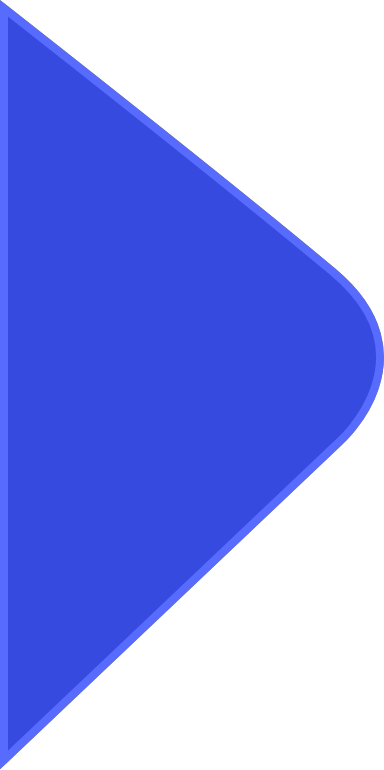
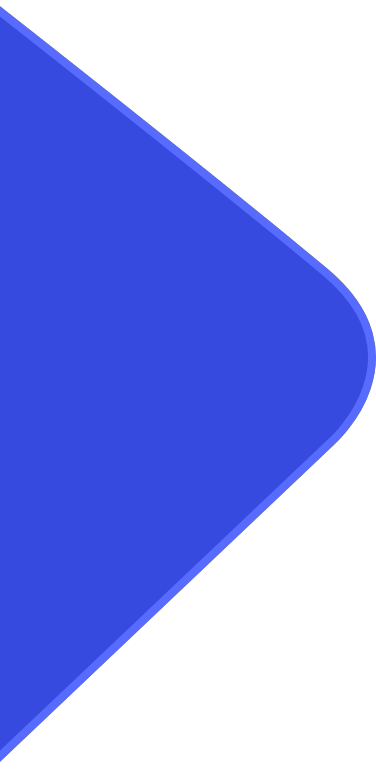
css images de fond sur les pages

diff --git a/article-solutions.html b/article-solutions.html
@@ -23,13 +23,12 @@
     </div>
     <nav id="" class="menu">
         <ul>
-            <li><a href="index.html">Accueil</a></li>
-            <li><a href="article-intro.html">Article introductif</a></li>
-            <li><a href="article-pbs.html">Article problèmes</a></li>
-            <li><a href="article-solutions.html">Article solutions</a></li>
-            <li><a href="a-propos.html">A propos</a></li>
-            <li><a href="contact.html">Contact</a></li>
-
+            <li><a href="index.html">Accueil <i class="fa fa-home" aria-hidden="true"></i></a></li>
+            <li><a href="article-intro.html">Article introductif <i class="fa fa-file-text" aria-hidden="true"></i></a></li>
+            <li><a href="article-pbs.html">Article problèmes <i class="fa fa-file-text" aria-hidden="true"></i></a></li>
+            <li><a href="article-solutions.html">Article solutions <i class="fa fa-file-text" aria-hidden="true"></i></a></li>
+            <li><a href="a-propos.html">A propos <i class="fa fa-question-circle" aria-hidden="true"></i></a></li>
+            <li><a href="contact.html">Contact <i class="fa fa-at" aria-hidden="true"></i></a></li>
         </ul>
     </nav>
 </header>
@@ -51,26 +50,31 @@
 </div>
 
 <article>
+
     <p>Dans cet article, nous énumérerons une façon de limiter l’impact de la circulation des données, mais aussi des moyens mis en œuvre pour les réduire ainsi que pour repenser leur stockage.</p>
     <p>Ensuite nous verrons des changements qui peuvent être appliqués à l’échelle de l’utilisateur, afin d’atténuer la pollution liée aux usages des équipements informatiques.</p>
 
     <h3 class="intertitres">Passer à l'edge computing :</h3>
     <div class="triangle"> </div>
-
+    <div class="edge">
     <p>L’edge computing revient à centraliser et traiter les données localement à l’aide de minuscules Data Centers placés à proximité des objets connectés, voire, directement dessus.</p>
     <p>La donnée n’est plus traitée de manière centrale, mais en périphérie d’où le terme « edge ». Puisque l’edge computing traite la donnée localement, il peut trier les informations et n’envoyer que les éléments importants aux terminaux.</p>
     <p>Cette solution est donc plus écologique puisque les données parcourent une distance moins importante et qu’elles n’exigent pas de cycle de refroidissement par l’eau, contrairement aux Data Centers.</p>
-    
+    </div>
     <img class="images-articles" src="img/Article_3/Edge_Computing.png" height="792" width="1436" alt="Schéma de l'edge computing">
 
     <h3 class="intertitres">Limiter les données :</h3>
     <div class="triangle"> </div>
+
+    <div class="eye">
 
     <p>La start-up française Prophesee commercialise une solution de traitement d’image qui ne nécessite que très peu de données.</p>
 
     <p>La plupart des objets connectés du marché utilisent la vision artificielle. Ces caméras enregistrent des séquences d’images qui seront compilées puis traitées. Les données visuelles sont donc produites en masse puis soit supprimées, soit traitées.</p>
 
     <p>La solution de Prophesee se base sur la vision humaine : plutôt que d’enregistrer chaque image, le cerveau nous transmet uniquement les informations liées aux mouvements. La vision artificielle innovante de Prophesee capture et transmet 1 000 fois moins de données qu’une caméra classique.</p>
+
+    </div>
 
     <h3 class="intertitres">Repenser le stockage de données :</h3>
     <div class="triangle"> </div>

diff --git a/article-pbs.html b/article-pbs.html
@@ -23,13 +23,12 @@
     </div>
     <nav id="" class="menu">
         <ul>
-            <li><a href="index.html">Accueil</a></li>
-            <li><a href="article-intro.html">Article introductif</a></li>
-            <li><a href="article-pbs.html">Article problèmes</a></li>
-            <li><a href="article-solutions.html">Article solutions</a></li>
-            <li><a href="a-propos.html">A propos</a></li>
-            <li><a href="contact.html">Contact</a></li>
-
+            <li><a href="index.html">Accueil <i class="fa fa-home" aria-hidden="true"></i></a></li>
+            <li><a href="article-intro.html">Article introductif <i class="fa fa-file-text" aria-hidden="true"></i></a></li>
+            <li><a href="article-pbs.html">Article problèmes <i class="fa fa-file-text" aria-hidden="true"></i></a></li>
+            <li><a href="article-solutions.html">Article solutions <i class="fa fa-file-text" aria-hidden="true"></i></a></li>
+            <li><a href="a-propos.html">A propos <i class="fa fa-question-circle" aria-hidden="true"></i></a></li>
+            <li><a href="contact.html">Contact <i class="fa fa-at" aria-hidden="true"></i></a></li>
         </ul>
     </nav>
 </header>
@@ -67,6 +66,8 @@
     <h3 class="intertitres">Les objets connectés, grand danger</h3>
     <div class="triangle"> </div>
 
+    <div class="head">
+
     <p>En 2019, on compte 8 équipements numérique par personne en moyenne. On pourrait en dénombrer plus de 68,5 milliards dans le monde d’ici 2025.</p>
 
     <p>Avec une progression pareille du numérique, les émissions de CO2 se verraient augmenter de 5,5 % en 2025, et l’électricité consommée à l’année pourrait tripler.</p>
@@ -76,6 +77,8 @@
     <p>Il ne faut pas oublier que la fabrication de ces appareils, à la manière des smartphones ou ordinateurs, impliquerait épuisement de ressources non renouvelables, pollution de l’eau, destruction des sols provoquée par l’extraction des minerais et productions importantes de gaz à effet de serre.</p>
 
     <p>Les minerais, en faible quantité, sont alliés à d’autres métaux, indiscernables, rendant leur recyclage compliqué.</p>
+
+    </div>
 
     <img class="images-articles" src="img/Article_2/Cyberbrain.jpg" width="1609" height="891" alt="Opération sur Cyberbrain">
 

diff --git a/article-intro.html b/article-intro.html
@@ -23,13 +23,12 @@
     </div>
     <nav id="" class="menu">
         <ul>
-            <li><a href="index.html">Accueil</a></li>
-            <li><a href="article-intro.html">Article introductif</a></li>
-            <li><a href="article-pbs.html">Article problèmes</a></li>
-            <li><a href="article-solutions.html">Article solutions</a></li>
-            <li><a href="a-propos.html">A propos</a></li>
-            <li><a href="contact.html">Contact</a></li>
-
+            <li><a href="index.html">Accueil <i class="fa fa-home" aria-hidden="true"></i></a></li>
+            <li><a href="article-intro.html">Article introductif <i class="fa fa-file-text" aria-hidden="true"></i></a></li>
+            <li><a href="article-pbs.html">Article problèmes <i class="fa fa-file-text" aria-hidden="true"></i></a></li>
+            <li><a href="article-solutions.html">Article solutions <i class="fa fa-file-text" aria-hidden="true"></i></a></li>
+            <li><a href="a-propos.html">A propos <i class="fa fa-question-circle" aria-hidden="true"></i></a></li>
+            <li><a href="contact.html">Contact <i class="fa fa-at" aria-hidden="true"></i></a></li>
         </ul>
     </nav>
 </header>
@@ -49,7 +48,7 @@
 </div>
 </div>
 
-<article>
+<article class="fond-triangles">
     <h3 class="intertitres">Quelques faits concernant le film :</h3>
     <div class="triangle"> </div>
 

diff --git a/a-propos.html b/a-propos.html
@@ -22,13 +22,12 @@
     </div>
     <nav id="" class="menu">
         <ul>
-            <li><a href="index.html">Accueil</a></li>
-            <li><a href="article-intro.html">Article introductif</a></li>
-            <li><a href="article-pbs.html">Article problèmes</a></li>
-            <li><a href="article-solutions.html">Article solutions</a></li>
-            <li><a href="a-propos.html">A propos</a></li>
-            <li><a href="contact.html">Contact</a></li>
-
+            <li><a href="index.html">Accueil <i class="fa fa-home" aria-hidden="true"></i></a></li>
+            <li><a href="article-intro.html">Article introductif <i class="fa fa-file-text" aria-hidden="true"></i></a></li>
+            <li><a href="article-pbs.html">Article problèmes <i class="fa fa-file-text" aria-hidden="true"></i></a></li>
+            <li><a href="article-solutions.html">Article solutions <i class="fa fa-file-text" aria-hidden="true"></i></a></li>
+            <li><a href="a-propos.html">A propos <i class="fa fa-question-circle" aria-hidden="true"></i></a></li>
+            <li><a href="contact.html">Contact <i class="fa fa-at" aria-hidden="true"></i></a></li>
         </ul>
     </nav>
 </header>

diff --git a/contact.html b/contact.html
@@ -22,13 +22,12 @@
     </div>
     <nav id="" class="menu">
         <ul>
-            <li><a href="index.html">Accueil</a></li>
-            <li><a href="article-intro.html">Article introductif</a></li>
-            <li><a href="article-pbs.html">Article problèmes</a></li>
-            <li><a href="article-solutions.html">Article solutions</a></li>
-            <li><a href="a-propos.html">A propos</a></li>
-            <li><a href="contact.html">Contact</a></li>
-
+            <li><a href="index.html">Accueil <i class="fa fa-home" aria-hidden="true"></i></a></li>
+            <li><a href="article-intro.html">Article introductif <i class="fa fa-file-text" aria-hidden="true"></i></a></li>
+            <li><a href="article-pbs.html">Article problèmes <i class="fa fa-file-text" aria-hidden="true"></i></a></li>
+            <li><a href="article-solutions.html">Article solutions <i class="fa fa-file-text" aria-hidden="true"></i></a></li>
+            <li><a href="a-propos.html">A propos <i class="fa fa-question-circle" aria-hidden="true"></i></a></li>
+            <li><a href="contact.html">Contact <i class="fa fa-at" aria-hidden="true"></i></a></li>
         </ul>
     </nav>
 </header>

diff --git a/index.html b/index.html
@@ -22,12 +22,12 @@
         </div>
     <nav class="menu">
         <ul>
-            <li><a href="index.html">Accueil</a></li>
-            <li><a href="article-intro.html">Article introductif</a></li>
-            <li><a href="article-pbs.html">Article problèmes</a></li>
-            <li><a href="article-solutions.html">Article solutions</a></li>
-            <li><a href="a-propos.html">A propos</a></li>
-            <li><a href="contact.html">Contact</a></li>
+            <li><a href="index.html">Accueil <i class="fa fa-home" aria-hidden="true"></i></a></li>
+            <li><a href="article-intro.html">Article introductif <i class="fa fa-file-text" aria-hidden="true"></i></a></li>
+            <li><a href="article-pbs.html">Article problèmes <i class="fa fa-file-text" aria-hidden="true"></i></a></li>
+            <li><a href="article-solutions.html">Article solutions <i class="fa fa-file-text" aria-hidden="true"></i></a></li>
+            <li><a href="a-propos.html">A propos <i class="fa fa-question-circle" aria-hidden="true"></i></a></li>
+            <li><a href="contact.html">Contact <i class="fa fa-at" aria-hidden="true"></i></a></li>
         </ul>
     </nav>
 </header>

diff --git a/css/mescss/menu.css b/css/mescss/menu.css
@@ -13,7 +13,7 @@
 
 .nav-toggle-bar, .nav-toggle-bar::before, .nav-toggle-bar::after {
     content:"";
-    background-color: black;
+    background-color: #00ABFD;
     width: 100%;
     height: 2px;
     position: absolute;
@@ -32,19 +32,22 @@
 
 .menu-open .nav-toggle-bar {
     transform: rotate(135deg);
-    background-color: white;
+    background-color: #00F9DE;
 }
 
 .menu-open .nav-toggle-bar::before,
 .menu-open .nav-toggle-bar::after {
     transform: rotate(90deg);
-    background-color: white;
+    background-color: #00F9DE;
     top: 0;
 }
 
 .menu {
 
     background-color: #1428B1;
+    background-image: url(../img/Menu/fond.png);
+    background-size: cover;
+    width: 375px;
 
     position: fixed;
     top: 0;
@@ -81,10 +84,12 @@
 
 .menu ul {
     list-style: none;
-    text-transform: uppercase;
+
     margin: 0;
     padding: 0;
-    font-size: 2.3rem;
+    font-size: 25px;
+    font-family: 'Play', sans-serif;
+
 
 
 }
@@ -95,7 +100,9 @@
 }
 
 .menu a {
-    color: white;
+    color: #00F9DE;
+    text-decoration: none;
+
 }
 
 .menu-open .menu li:nth-child(n+1) {

diff --git a/css/mescss/article-solutions.css b/css/mescss/article-solutions.css
@@ -160,3 +160,15 @@ img.encadre-intertitre {
 footer {
     margin-top: 200px;
 }
+
+div.edge {
+    background-image: url(../img/edge.png);
+    background-repeat: no-repeat;
+    background-position: center center;
+}
+
+div.eye {
+    background-image: url(../img/eye.png);
+    background-repeat: no-repeat;
+    background-position: center center;
+}

diff --git a/css/mescss/article-introductif.css b/css/mescss/article-introductif.css
@@ -3,6 +3,13 @@ html {
     background-color: #192DB7;
 }
 
+article.fond-triangles {
+    background-image: url(../img/triangles-fond.png);
+    background-repeat: no-repeat;
+    background-position: center center;
+
+}
+
 body>div.haut-de-page>img {
     width: 359px;
     height: 156px;

diff --git a/css/mescss/article-problemes.css b/css/mescss/article-problemes.css
@@ -126,6 +126,12 @@ article{
     margin: 10px;
 }
 
+div.head {
+    background-image: url(../img/head.png);
+    background-repeat: no-repeat;
+    background-position: center center;
+}
+
 footer {
     margin-top: 203px;
 }
